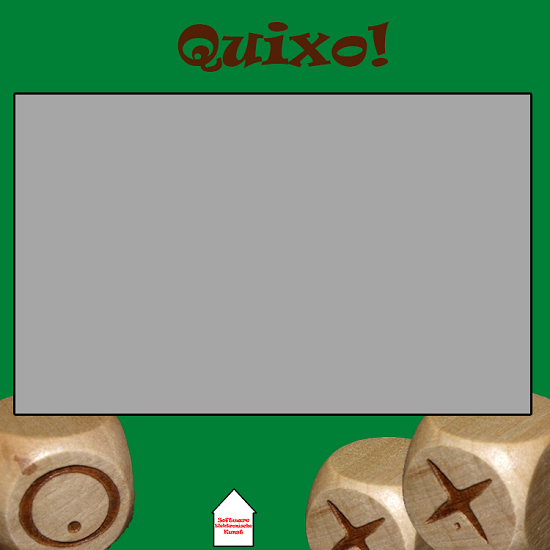
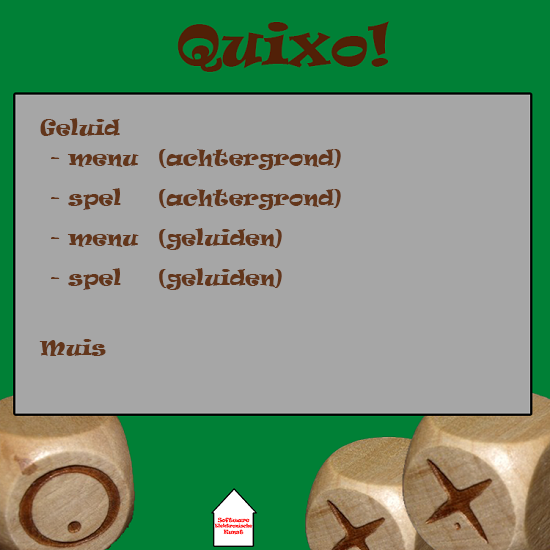
Optie velden toegevoegd

diff --git a/src/hoofdmenu/opties/Opties.java b/src/hoofdmenu/opties/Opties.java
@@ -12,7 +12,11 @@ import java.awt.event.ActionListener;
  */
 public class Opties extends JPanel implements ActionListener{
 
+    private String[] jcbKeuzes = {"ja", "nee"};
+    private String[] jcbKeuzesMuis = {"Linkshandig", "Rechtshandig"};
+
     private JFrame spelFrame;
+    private JComboBox achtergrond_menu, achtergrond_spel, geluid_menu, geluid_spel, muis;
     private JButton terug;
     private JLabel background;
 
@@ -21,9 +25,16 @@ public class Opties extends JPanel implements ActionListener{
         this.spelFrame = spelFrame;
 
         maakAchtergrond();
+        maakCombo();
+        maakComboMuis();
         maakButton();
 
         setLayout(null);
+        add(achtergrond_menu);
+        add(achtergrond_spel);
+        add(geluid_menu);
+        add(geluid_spel);
+        add(muis);
         add(terug);
 
         setLayout(new BorderLayout());
@@ -41,6 +52,42 @@ public class Opties extends JPanel implements ActionListener{
         terug.setBorder(null);
         terug.setBounds(200, 420, 150, 51);
         terug.addActionListener(this);
+    }
+
+    private void maakCombo(){
+
+        achtergrond_menu = new JComboBox(jcbKeuzes);
+        achtergrond_menu.setBorder(null);
+        achtergrond_menu.setBounds(380, 130, 75, 25);
+        achtergrond_menu.setBackground(new Color(130,128,122));
+        achtergrond_menu.setForeground(new Color(107,54,31));
+
+        achtergrond_spel = new JComboBox(jcbKeuzes);
+        achtergrond_spel.setBorder(null);
+        achtergrond_spel.setBounds(380, 170, 75, 25);
+        achtergrond_spel.setBackground(new Color(130,128,122));
+        achtergrond_spel.setForeground(new Color(107,54,31));
+
+        geluid_menu = new JComboBox(jcbKeuzes);
+        geluid_menu.setBorder(null);
+        geluid_menu.setBounds(380, 210, 75, 25);
+        geluid_menu.setBackground(new Color(130,128,122));
+        geluid_menu.setForeground(new Color(107,54,31));
+
+        geluid_spel = new JComboBox(jcbKeuzes);
+        geluid_spel.setBorder(null);
+        geluid_spel.setBounds(380, 250, 75, 25);
+        geluid_spel.setBackground(new Color(130,128,122));
+        geluid_spel.setForeground(new Color(107,54,31));
+    }
+
+    private void maakComboMuis(){
+
+        muis = new JComboBox(jcbKeuzesMuis);
+        muis.setBorder(null);
+        muis.setBounds(340, 320, 115, 25);
+        muis.setBackground(new Color(130,128,122));
+        muis.setForeground(new Color(107,54,31));
     }
 
     @Override
